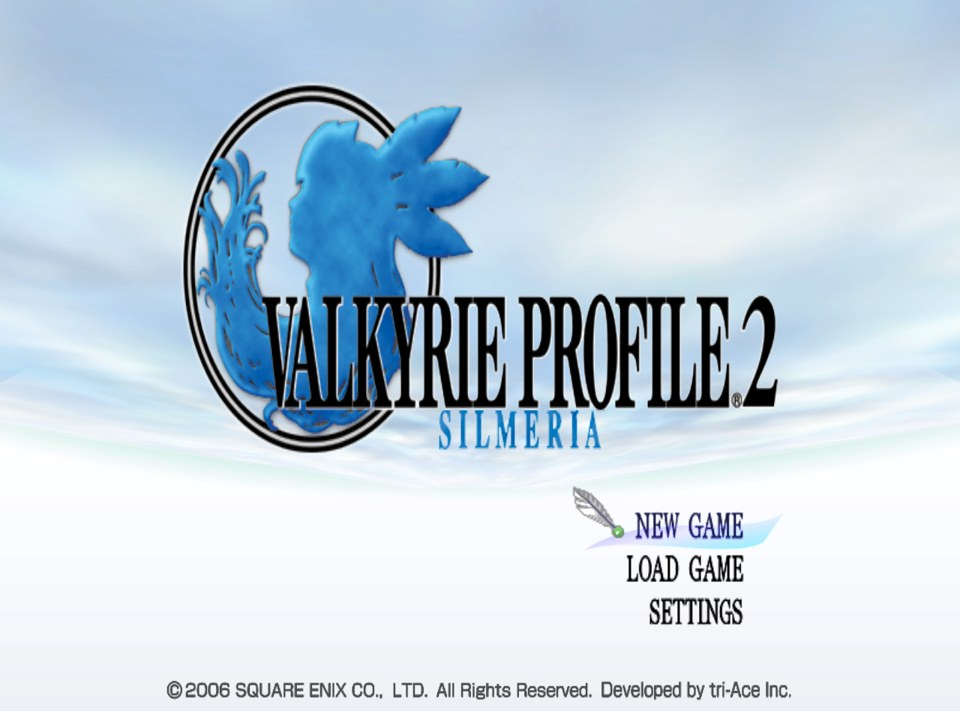
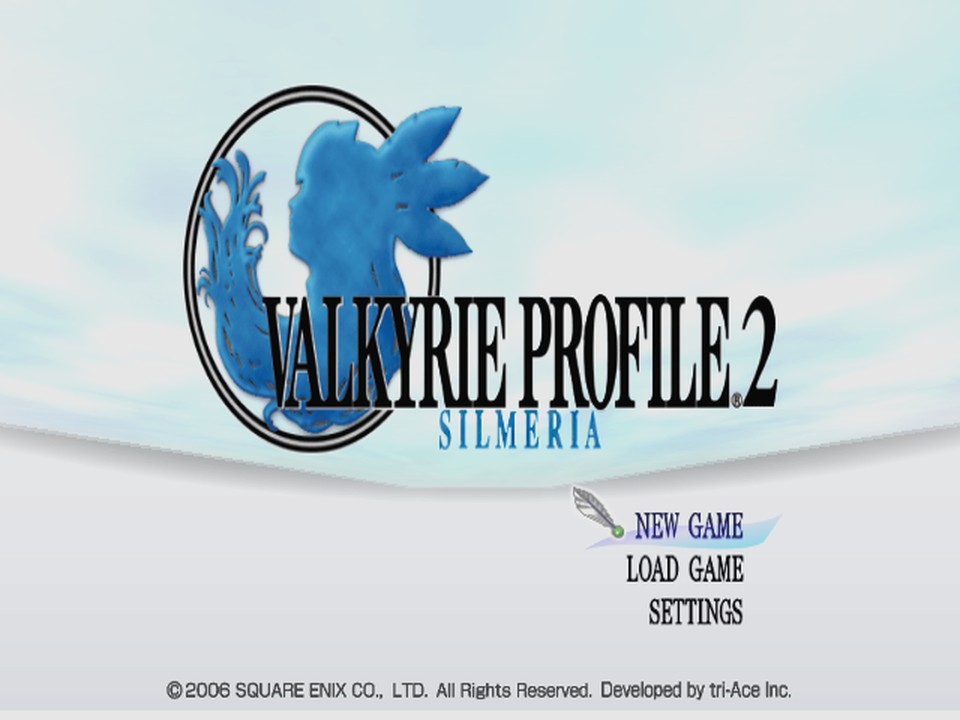
README: the BozoEngine runner, its build and run, fresh screenshots
The README described only the PS2Recomp launcher (frozen since early
November). It now presents both runners, the BozoEngine runner's status
(boot, Logun, Solde, Lost Forest, the first battle), its build
(tools/vp2_bozo.py, MSYS2 UCRT64, FFmpeg) and options, and known issues.
Screenshots are new captures from vp2s-bozo-headless, with a battle section.

diff --git a/README.md b/README.md
@@ -5,14 +5,14 @@
 # VP2S_Recomp
 
 **A native Windows port of *Valkyrie Profile 2: Silmeria*, made by statically recompiling the game's PlayStation 2 code to C++.**<br>
-The game's own MIPS R5900 code, rebuilt as a Windows program, drawing and playing sound natively: no GS, no VU1 and no SPU2 emulation on the default path.
+The game's own MIPS R5900 and IOP code, rebuilt as a Windows program, drawing natively: no GS, no VU0 or VU1 microcode, and no SPU2 emulation.
 
 ![Platform](https://img.shields.io/badge/platform-Windows-1b8cff)
-![Compiler](https://img.shields.io/badge/compiler-MSVC-1b8cff)
+![Engine](https://img.shields.io/badge/engine-BozoEngine-17a35b)
 ![Based on](https://img.shields.io/badge/based%20on-PS2Recomp-17a35b)
 ![Disc](https://img.shields.io/badge/disc-SLUS--21452%20(USA)-8a2be2)
-![Renderer](https://img.shields.io/badge/renderer-native%20OpenGL-17a35b)
-![Status](https://img.shields.io/badge/status-playable%20%28chapter%201%29-e3a21a)
+![Renderer](https://img.shields.io/badge/renderer-native-17a35b)
+![Status](https://img.shields.io/badge/status-in%20development-e3a21a)
 
 </div>
 
@@ -23,100 +23,116 @@ The game's own MIPS R5900 code, rebuilt as a Windows program, drawing and playin
 > | Release | File | SHA-1 |
 > |---|---|---|
 > | USA (target) | `SLUS_214.52` | `0534bfe1a7e6877b4430f2221ea7ce614fea4afd` |
-> | PAL (former target, being dropped) | `SLES_546.45` | `541fa8d563b2834350fd0a635a4d3631574ad778` |
->
-> The European build tree still exists (`build/`), but new work is done and checked on the USA disc only.
+> | PAL (former target, dropped) | `SLES_546.45` | `541fa8d563b2834350fd0a635a4d3631574ad778` |
 
 ## Screenshots
 
-Captured from `vp2s.exe` (USA disc), native renderer.
+Captured from the BozoEngine runner (`vp2s-bozo-headless`, USA disc) at the game's own 576 × 416 frame, shown at 4:3.
 
 | | |
 |:---:|:---:|
 | ![Title screen](docs/screenshots/title.jpg) | ![Logun](docs/screenshots/logun.jpg) |
-| Title screen (animated sky, matched against PCSX2) | The port town of Logun |
-| ![Camp menu](docs/screenshots/camp_menu.jpg) | ![Settings](docs/screenshots/settings.jpg) |
-| Camp menu | Settings |
-| ![Data menu](docs/screenshots/data_menu.jpg) | |
-| Load game (data menu) | |
+| Title screen | The port town of Logun |
+| ![Event scene](docs/screenshots/event.jpg) | ![Solde](docs/screenshots/solde.jpg) |
+| An event scene: Alicia | The town of Solde |
+| ![Camp menu](docs/screenshots/camp_menu.jpg) | ![Lost Forest](docs/screenshots/lost_forest.jpg) |
+| Camp menu | The Lost Forest: photons and the minimap |
+
+### Battle
+
+| | |
+|:---:|:---:|
+| ![Battle intro](docs/screenshots/battle_intro.jpg) | ![Battle](docs/screenshots/battle.jpg) |
+| The Ballistic Rhino appears | Movement mode: party HUD, target and minimap |
+| ![Attack](docs/screenshots/battle_attack.jpg) | ![Guard break](docs/screenshots/guard_break.jpg) |
+| An attack turn's hit effects | GUARD BREAK |
 
 ## Goal: a PC port, not an emulator
 
 The end state has **zero PS2 hardware emulation**. Only the game's own code runs: the recompiled EE code and its
 recompiled IOP modules. Everything that code produces goes to native PC paths: a renderer with its own targets and
 textures built from the game's data, an audio mixer on the PC's clock, and frames paced by the host with the real frame
-time. No GS (VRAM, swizzling, CLUTs), no VU1 microcode, no VIF/GIF packets, no SPU2.
+time. No GS (VRAM, swizzling, CLUTs), no VU microcode, no VIF/GIF packets, no SPU2.
 
-Emulated code is never the default: where a native path is still wrong, the native path gets fixed. The old GS path
-stays only behind a comparison switch (`VP2S_GS=1`). The reference for how things should look and sound is the real
-game on [PCSX2](https://pcsx2.net/), compared screen by screen (zone averages, and PCSX2 GS dumps to read the exact draw
-order when a screen differs).
+Emulation is never the fix: where a native path is wrong, the native path gets fixed. Every VU0 instruction the game
+runs is ported as the algorithm it computes (with the VU's own rounding), and an instruction that is not ported yet
+stops the run with its address instead of being emulated. The reference for how things should look and sound is the
+real game on [PCSX2](https://pcsx2.net/), compared screen by screen (and PCSX2 GS dumps to read the exact draw order
+when a screen differs).
 
 ## Status
 
-**Playable through the start of chapter 1** (the opening, the town of Logun, the battle tutorial and the first battles,
-menus, saving). The menus and the town are being compared against PCSX2 one screen at a time.
+The port has two runners. Work now goes into the second.
+
+| Runner | Base | State |
+|---|---|---|
+| `vp2s.exe` | [PS2Recomp](https://github.com/TheBozos/PS2Recomp) fork | Playable through the start of chapter 1. Frozen since early November 2026. |
+| `vp2s-bozo-headless` | [BozoEngine](https://github.com/TheBozos/BozoEngine) | Fully native, with no emulation fallback at all. It runs hidden from pad scripts and saved states, saving frames as PNG files; there is no game window or sound output yet. |
+
+**BozoEngine runner:**
 
 | | |
 |---|:---:|
-| Main ELF and the overlay modules recompiled to C++ (the battle modules from the game's encrypted archives too) | ✅ |
-| The game's ten IOP modules recompiled to C++ (none interpreted) | ✅ |
-| **No GS by default** (`PS2X_GS_RENDERER=none`): GIF packets are neither drawn nor kept | ✅ |
-| **No VU1 and no VIF1 processing**: the game's VIF1 chains end unprocessed, nothing runs on VU1 | ✅ |
-| Models drawn natively from the game's model records (bones, lighting, materials, texture scrolling) | ✅ |
-| Textures from the game's texture keys and an offline conversion of your disc | ✅ |
-| Interface (menus, text, sprites, panels) drawn natively from the game's layout objects | ✅ |
-| Post effects natively from the game's parameters: depth of field, the brightness pass, aerial perspective | ✅ |
-| Movies decoded natively (FFmpeg), their sound streamed straight to the mixer | ✅ |
-| **Native audio**: the game's sound library taken over at its API, mixed on the PC's clock (no SPU2) | ✅ |
-| Frame loop on the PC's clock, real frame time | ✅ |
-| Title screen, load / data menu, settings: matched against PCSX2 | ✅ |
-| Logun: town and camp menu match; the pause screen loses the town (being fixed) | 🔧 |
-| Battle HUD on the USA disc (one battle module, mod027, still to capture) | 🔧 |
+| Main ELF and 23 overlay modules recompiled, including the battle modules (from the game's encrypted archives, or captured at load) | ✅ |
+| The game's IOP modules (DBC manager, controller, sound device library, CSM, CSD, CSI) recompiled from their `.irx` files | ✅ |
+| No GS, VIF or VU1: models, interface, particles, shadows and post effects drawn natively from the game's records | ✅ |
+| VU0 code replaced by native algorithms; an unported site stops the run with its address | ✅ |
+| Movies decoded natively; music decoded natively from the game's own buffers | ✅ |
+| Boot, opening movies, title screen | ✅ |
+| Logun's harbour, the town of Solde: streets, houses, camp menu | ✅ |
+| Leaving town, the world map, the Lost Forest (haze, particles, minimap) | ✅ |
+| First battle (Ballistic Rhino, started with the `--battle` debug launcher): HUD, attack turns, effects, 16 000+ frames with no unported site | 🔧 |
+| Game window, live input and sound output | ⏳ |
 | Rest of the game | ⏳ |
-| Widescreen, higher internal resolution, frame rate options | ⏳ |
 
 ✅ works · 🔧 in progress · ⏳ not reached yet
 
-[docs/RECOMPILER.md](docs/RECOMPILER.md) records every fix and how it was found; [docs/vp2_models.md](docs/vp2_models.md)
-and [docs/vp2_dof.md](docs/vp2_dof.md) document the model format and the post effects as the port reads them;
-[docs/AUDIT.md](docs/AUDIT.md) is the initial feasibility audit (disc layout, modules, compression and encryption).
+These documents record the work:
+- [docs/BOZO_MIGRATION.md](docs/BOZO_MIGRATION.md) is the BozoEngine port's log, newest first: every native algorithm with its evidence.
+- [docs/RECOMPILER.md](docs/RECOMPILER.md) is the PS2Recomp-era log.
+- [docs/vp2_models.md](docs/vp2_models.md) and [docs/vp2_dof.md](docs/vp2_dof.md) document the model format and the post effects.
+- [docs/AUDIT.md](docs/AUDIT.md) is the initial feasibility audit: disc layout, modules, compression and encryption.
 
 ## How it works
 
 ```
-your disc ──► tools/extract.py ──► main ELF + overlay modules (decrypted, decompressed) + the game's asset files
+your disc ──► tools/extract.py ──► main ELF + overlay modules (decrypted, decompressed) + IOP modules + asset files
                     │                          │
-                    │   Ghidra (EE) + find_entry_points.py ──► function maps ──► ps2_recomp ──► C++
-                    │                                                                         │
-                    └─► offline conversions (textures, meshes, archives) ──┐                  │
-                                                                           ▼                  ▼
-                         PS2Recomp runtime (EE kernel HLE, DMAC, IOP) + native renderer / mixer ──► vp2s.exe
+                    │                          ├─► BozoEngine's bozo-recomp (EE) and native_irx (IOP) ──► C++ ──┐
+                    │                          │                                                               │
+                    │                          └─► Ghidra + ps2_recomp (PS2Recomp, the older runner) ──► C++    │
+                    │                                                                                          ▼
+                    └─► offline conversions (textures, meshes, glyphs, music tables) ──► BozoEngine runtime + bozo/ ──► vp2s-bozo-headless
 ```
 
 - Most of the game's code is loaded at run time as overlay modules, stored encrypted (SLE) and compressed (SLZ).
   `tools/extract.py` unpacks them; `tools/vp2_archives.py` opens the encrypted `p@Ck` archives, where the battle modules
-  live. Modules met at run time that no archive holds are saved the first time the game loads them
-  (`<build>/captured_modules/`, never committed) and recompiled by the next build.
-- Ghidra (with the Emotion Engine extension) maps the functions; PS2Recomp turns each one into C++. Overlay calls are
-  dispatched by slot, so a module's code runs only while it is resident.
-- `port/` links the generated code with the runtime into `vp2s.exe` and hooks the game where it builds its draws: the
-  model, interface and post-effect objects are read from the game's own memory and drawn natively.
+  live. Modules that no archive holds are saved the first time the game loads them (`<build>/captured_modules/`, never
+  committed) and recompiled by the next build.
+- `tools/vp2_bozo.py` prepares the images, has BozoEngine recompile each module to C++, and builds the runner. Each
+  remaining COP2 (VU0) instruction is compiled as a guarded native site. `bozo/` holds the port's native side:
+  - the VU0 algorithms (`native_math.cpp`, `native_random.cpp`, ...);
+  - the kernel bindings;
+  - the readers that turn the game's model, interface, particle and effect records into native draws.
 - The game's textures and meshes are converted once, offline, from your disc (`tools/vp2_textures.py`,
-  `tools/vp2_meshes.py`); the running game is matched to them by the keys it passes its own loaders.
+  `tools/vp2_meshes.py`, then `tools/vp2_bozo_meshes.py`). The running game is matched to them by the keys it passes its
+  own loaders.
 
-The PS2Recomp fork lives in `external/PS2Recomp` (git submodule, [TheBozos/PS2Recomp](https://github.com/TheBozos/PS2Recomp),
-branch `native/gs-backend`): the native renderer, the native mixer and most runtime fixes land there and are shared
-with the team's other ports.
+The engine lives in `external/BozoEngine` (git submodule, [TheBozos/BozoEngine](https://github.com/TheBozos/BozoEngine)),
+shared with the team's other ports. The older runner's PS2Recomp fork is still in `external/PS2Recomp`.
 
 ## Requirements
 
 - Windows 10 or 11, Python 3.10 or later
-- Visual Studio 2022 Build Tools ("Desktop development with C++": MSVC, CMake, Ninja), found with `vswhere` or `VP2S_VS_DIR`
-- Ghidra (`GHIDRA_INSTALL_DIR`) and the Emotion Engine extension zip for that Ghidra version (`VP2S_GHIDRA_EE_ZIP`)
 - Your own disc image of `SLUS-21452` (check the hash above)
 - The 16-byte SLE key, in `VP2S_SLE_KEY` or `<build>/sle_key.txt` (32 hex digits). It is not distributed: the game
   computes it at boot; see `load_sle_key` in `tools/slz.py`.
+- For the BozoEngine runner:
+  - MSYS2 UCRT64 (`C:\msys64\ucrt64`: g++, CMake, Ninja);
+  - an FFmpeg development tree (`BOZO_FFMPEG_ROOT` or `--ffmpeg`).
+- For the extraction pipeline and the older runner:
+  - Visual Studio 2022 Build Tools ("Desktop development with C++": MSVC, CMake, Ninja);
+  - Ghidra (`GHIDRA_INSTALL_DIR`) with the Emotion Engine extension zip (`VP2S_GHIDRA_EE_ZIP`).
 
 ## Build
 
@@ -127,12 +143,13 @@ $env:VP2S_BUILD = "build_usa"; $env:VP2S_ISO = "Valkyrie Profile 2 - Silmeria (U
 python tools/pipeline.py
 ```
 
-`VP2S_BUILD` picks the build tree (`build` by default, the European one), `VP2S_ISO` the disc image (else the first
-`.iso` in the project root). The pipeline runs `extract`, `wrap`, `ghidra`, `tool`, `sdk`, `entries`, `recomp`, `vu`,
-`report`, `port`, `test`; each stage skips work whose outputs are up to date (`--only <stage>`, `--from <stage>`,
-`--force`, `--inputs main,mod003`). The first full build takes a while: the recompiled code is several hundred MB of C++.
+The pipeline extracts the disc and builds the older runner:
+- `VP2S_BUILD` picks the build tree;
+- `VP2S_ISO` picks the disc image (else the first `.iso` in the project root);
+- the stages are `extract`, `wrap`, `ghidra`, `tool`, `sdk`, `entries`, `recomp`, `vu`, `report`, `port`, `test`;
+- each stage skips work whose outputs are up to date (`--only <stage>`, `--from <stage>`, `--force`).
 
-Then the offline conversions, once (they read the asset files `extract.py --assets` wrote):
+Then run the offline conversions, once (they read the asset files `extract.py --assets` wrote):
 
 ```powershell
 python tools/vp2_archives.py "<disc image>" --out build_usa/extract/assets
@@ -141,22 +158,47 @@ python tools/vp2_textures.py --assets build_usa/extract/assets --index build_usa
 python tools/vp2_meshes.py --assets build_usa/extract/assets --out build_usa/vp2_meshes
 ```
 
-The current mesh format is VPM3. Regenerate older VPM2 packs with the mesh command
-above: editable vertex offsets are now converted offline, and the runtime no
-longer interprets VIF commands to locate animated vertices.
+Then the BozoEngine runner:
 
-The port build also runs `tools/vp2_music.py` to compile the streamed-music DSP and
-convert its tables offline from the USA ELF. Its default decoder reads the game's
-coefficient/history buffers directly; it does not process music VIF1 chains.
-The IOP service and other hardware dependencies remain; see [music](docs/vp2_music.md).
+```powershell
+python tools/vp2_bozo.py --stage build --jobs 4
+```
 
-Startup key derivation also uses the game's seed directly, with constants
-converted offline by `tools/vp2_bootstrap.py`; its default path skips the VIF0
-upload and VU0 execution. Other VU0/IOP work remains; see [VU0](docs/vp2_vu0.md).
+This builds the engine's tools and generates the C++ for main and the 23 overlay modules (`--inputs`). It also
+converts particle materials, meshes, glyphs and music tables into `build_usa/bozo`, then builds
+`build_usa/bozo_port/vp2s-bozo-headless.exe` and runs its 95 unit checks (`ctest`). `--stage generate` stops after the
+generated code. After changing only `bozo/` sources, `cmake --build build_usa/bozo_port` is enough.
 
 [tools/README.md](tools/README.md) documents every stage and tool.
 
 ## Run
+
+### BozoEngine runner
+
+```powershell
+build_usa\bozo_port\vp2s-bozo-headless.exe --iso "Valkyrie Profile 2 - Silmeria (USA).iso" --frames 40000 `
+    --pad-script tools\pad_scripts\bozo_logun_armory.txt --capture shots\c.png
+```
+
+The runner has no window or live input yet. It plays the game for `--frames` frames from a pad script and saves the
+frames it draws. A site the port has not made native yet ends the run with its address, the function it is in, and
+the CPU registers.
+
+| Option | Effect |
+|---|---|
+| `--iso <file>` | Your USA disc image (required) |
+| `--frames <n>` | Frames to run |
+| `--pad-script <file>` | Button presses as `frame:BUTTON/frames,…`; `tools/pad_scripts/` has the boot-to-Logun-to-forest route and a battle |
+| `--capture <file.png>` | Save frames as `<file>_<frame>.png`; `VP2S_BOZO_CAPTURE_FROM` and `VP2S_BOZO_CAPTURE_EVERY` choose which ones |
+| `--save-state <file> --save-state-at <frame>`, `--load-state <file>` | Save the whole machine at a frame, and start from it later |
+| `--card-dir <dir>` | Memory cards in a folder. Without it, the cards are fresh, formatted and kept in memory, so your saves are never opened |
+| `--warp <map>[,x,y,z[,facing[,entry]]]` | Debug: the next event-script step changes to that map |
+| `--battle <id>[,stage[,flags]]` | Debug: the next event-script step starts that battle (event op 0x38) |
+
+`VP2S_BOZO_SEED` fixes the game's random seed, so runs repeat frame for frame. `VP2S_BOZO_BOUNDARY_RAM=<file>` saves
+EE memory when a run stops at an unported site.
+
+### Older runner (`vp2s.exe`)
 
 ```powershell
 build_usa\port\vp2s.exe build_usa\extract\iso\SLUS_214.52
@@ -165,7 +207,7 @@ build_usa\port\vp2s.exe build_usa\extract\iso\SLUS_214.52
 or set `[game] elf` in `vp2s.ini` and start `vp2s.exe` alone. The disc image is found through `VP2S_ISO`, or by
 searching upward from the ELF's folder (an image named `(USA)` first).
 
-### Settings: `vp2s.ini`
+#### Settings: `vp2s.ini`
 
 Written next to `vp2s.exe`, with comments, the first time it starts. An environment variable with the same meaning wins
 over the file, so test scripts and diagnostics keep working.
@@ -180,7 +222,7 @@ over the file, so test scripts and diagnostics keep working.
 | `[input]` | `start_analog` | The pad starts in analog mode (the party moves with the left stick in battles) |
 | `[env]` | `NAME = value` | Any other runtime variable (testing, diagnostics) |
 
-### Controls
+#### Controls
 
 A controller is used when one is connected; otherwise the keyboard (US key positions):
 
@@ -223,22 +265,25 @@ In the field, Start pauses and Select opens the camp menu.
 
 ## Known issues
 
-- **Pause screen in the field:** the town disappears behind the pause title (the game re-sends the town's prebuilt
-  packets while paused, which the native path does not see yet); its blur and the PAUSE title are missing too.
-- **Town look:** compared with PCSX2, the far distance is not blurred and the picture is a little brighter.
-- **Battle HUD:** one battle module (mod027) is in no archive on the USA disc and has to be captured at the first battle.
-- **European build:** kept for reference; its converted meshes need converting again after the USA-era format change.
+- **BozoEngine runner:** no game window, live input or sound output yet. Battles are reached only with the `--battle`
+  debug launcher, not by playing into one. A scene the route has not visited may stop at a site that is not native yet.
+- **Field pause (BozoEngine runner):** the PAUSE screen's background is black; the game shows the frozen scene behind it.
+- **Older runner:** frozen in early November 2026. Its field pause screen loses the town, and Logun's far distance
+  is less blurred and a little brighter than on PCSX2.
 
 ## Repository layout
 
 | Path | Contents |
 |---|---|
-| `tools/` | Pipeline, disc extractor, ELF wrapper, SLZ/SLE library, entry-point finder, archive / texture / mesh converters, `region_map.py` (EU to USA addresses) |
-| `port/` | Native front end: entry point, settings, game overrides, native models / interface / textures, diagnostics; `port/app/` the window's icon |
+| `tools/` | Pipelines (`pipeline.py`, `vp2_bozo.py`), disc extractor, SLZ/SLE library, archive / texture / mesh / glyph converters, pad scripts |
+| `bozo/` | The BozoEngine runner: entry point, kernel bindings, native VU0 algorithms, native models / interface / particles / effects |
+| `tests/` | The runner's unit checks (`vp2s-bozo-*-check`): each native algorithm against a VU0 reference or recorded game values |
+| `port/` | The older runner's front end (PS2Recomp): entry point, settings, game overrides, native models / interface / textures; `port/app/` the window's icon |
 | `ghidra_scripts/` | Headless Ghidra scripts |
 | `scripts/` | One-off analysis and check scripts |
-| `docs/` | Recompilation log, model and post-effect notes, feasibility audit; `docs/branding/` the logo and banner |
-| `external/PS2Recomp` | PS2Recomp fork (submodule) |
+| `docs/` | BozoEngine port log, recompilation log, model and post-effect notes, feasibility audit; `docs/branding/` the logo and banner |
+| `external/BozoEngine` | BozoEngine (submodule): recompiler, IOP recompiler, runtime, renderer |
+| `external/PS2Recomp` | PS2Recomp fork (submodule), for the older runner |
 
 Everything derived from the game (`build*/`, `extracted/`, `out/`, `work/`, `ghidra/`, disc images) is git-ignored.
 Never commit or redistribute it.
@@ -250,7 +295,8 @@ vp2s` (the generator comes from TMB_Recomp). No game art.
 ## Credits
 
 - [The Bozos](https://github.com/TheBozos) (boubou666, Arzaroth): this port, and the team's other PS2 recompilations it shares its fork with.
-- [PS2Recomp](https://github.com/ran-j/PS2Recomp) by ran-j and contributors (GPL), the recompiler and runtime this port is built on.
-- The Drakengard recompilation and the team's other ports (TMB, JC2, TTA), developed alongside this port on the same PS2Recomp fork; many runtime fixes are shared.
+- [BozoEngine](https://github.com/TheBozos/BozoEngine), The Bozos' recompiler and native runtime, which the port now runs on.
+- [PS2Recomp](https://github.com/ran-j/PS2Recomp) by ran-j and contributors (GPL), the recompiler and runtime the port was first built on.
+- The Drakengard recompilation and the team's other ports (TMB, JC2, TTA), developed alongside this port on the same engines; many runtime fixes are shared.
 - [PCSX2](https://pcsx2.net/), the reference every screen is compared against.
 - *Valkyrie Profile 2: Silmeria* © tri-Ace / Square Enix. This is an unofficial fan project, not affiliated with or endorsed by them.
